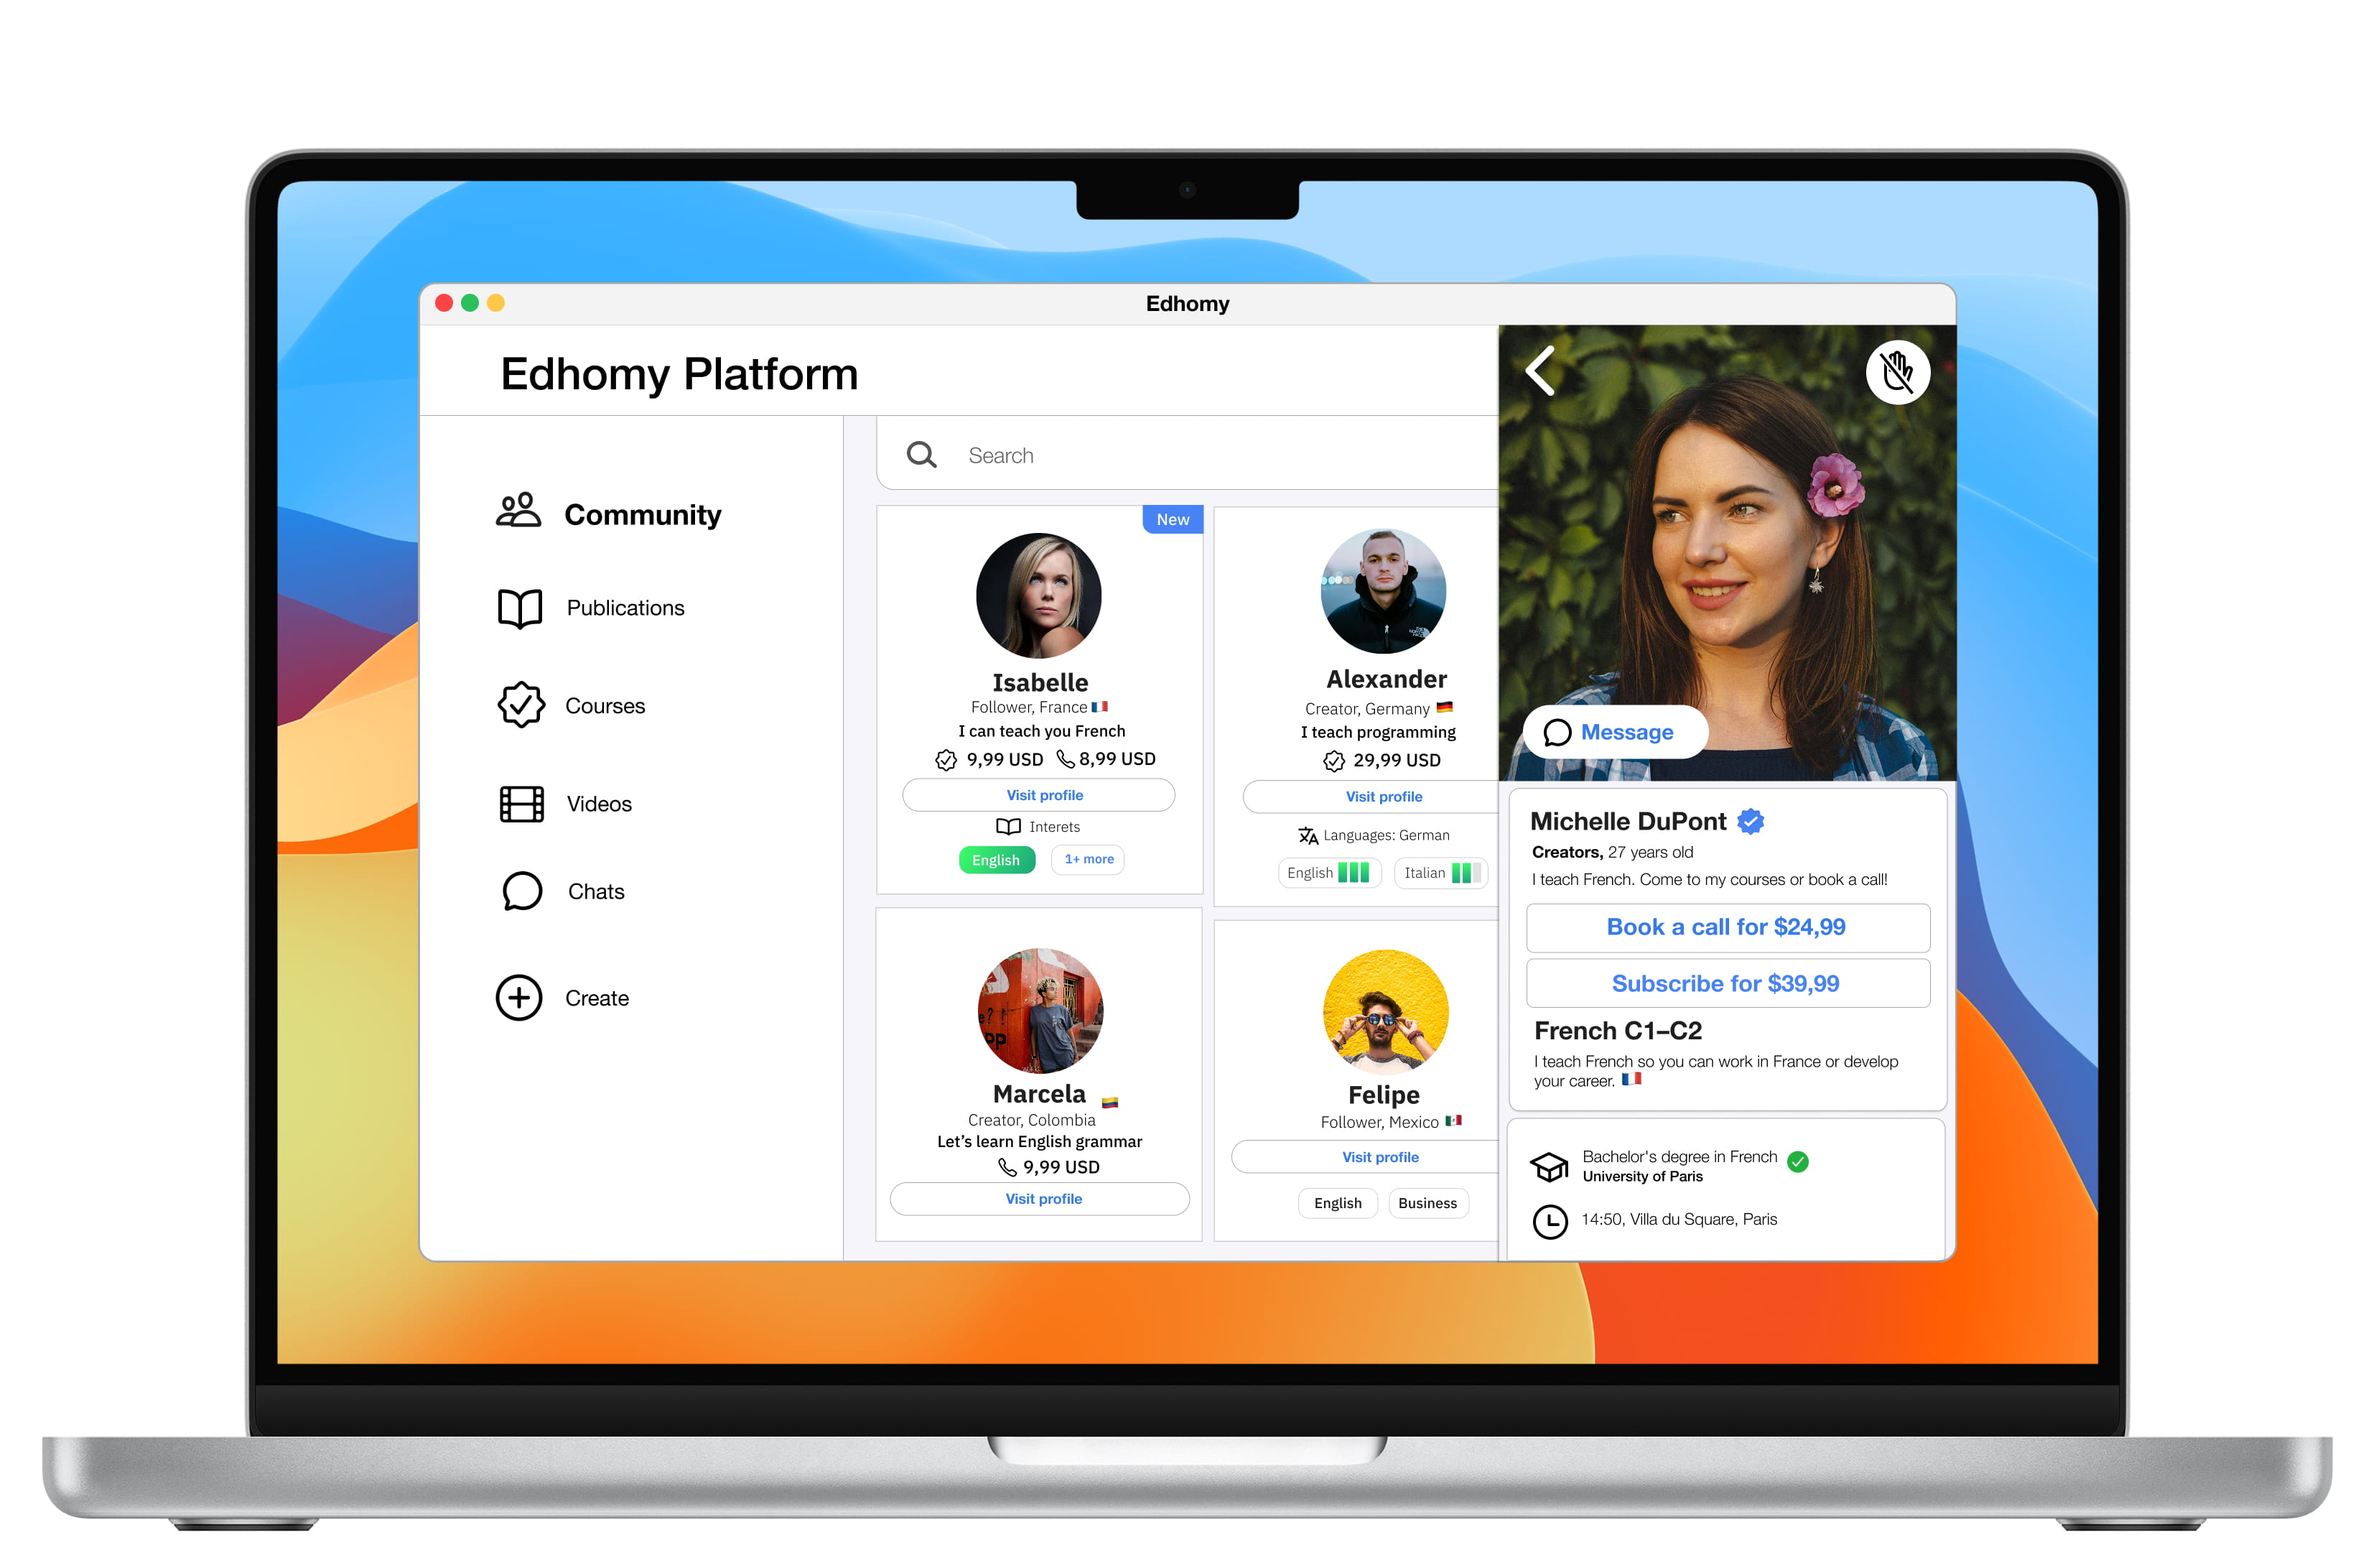
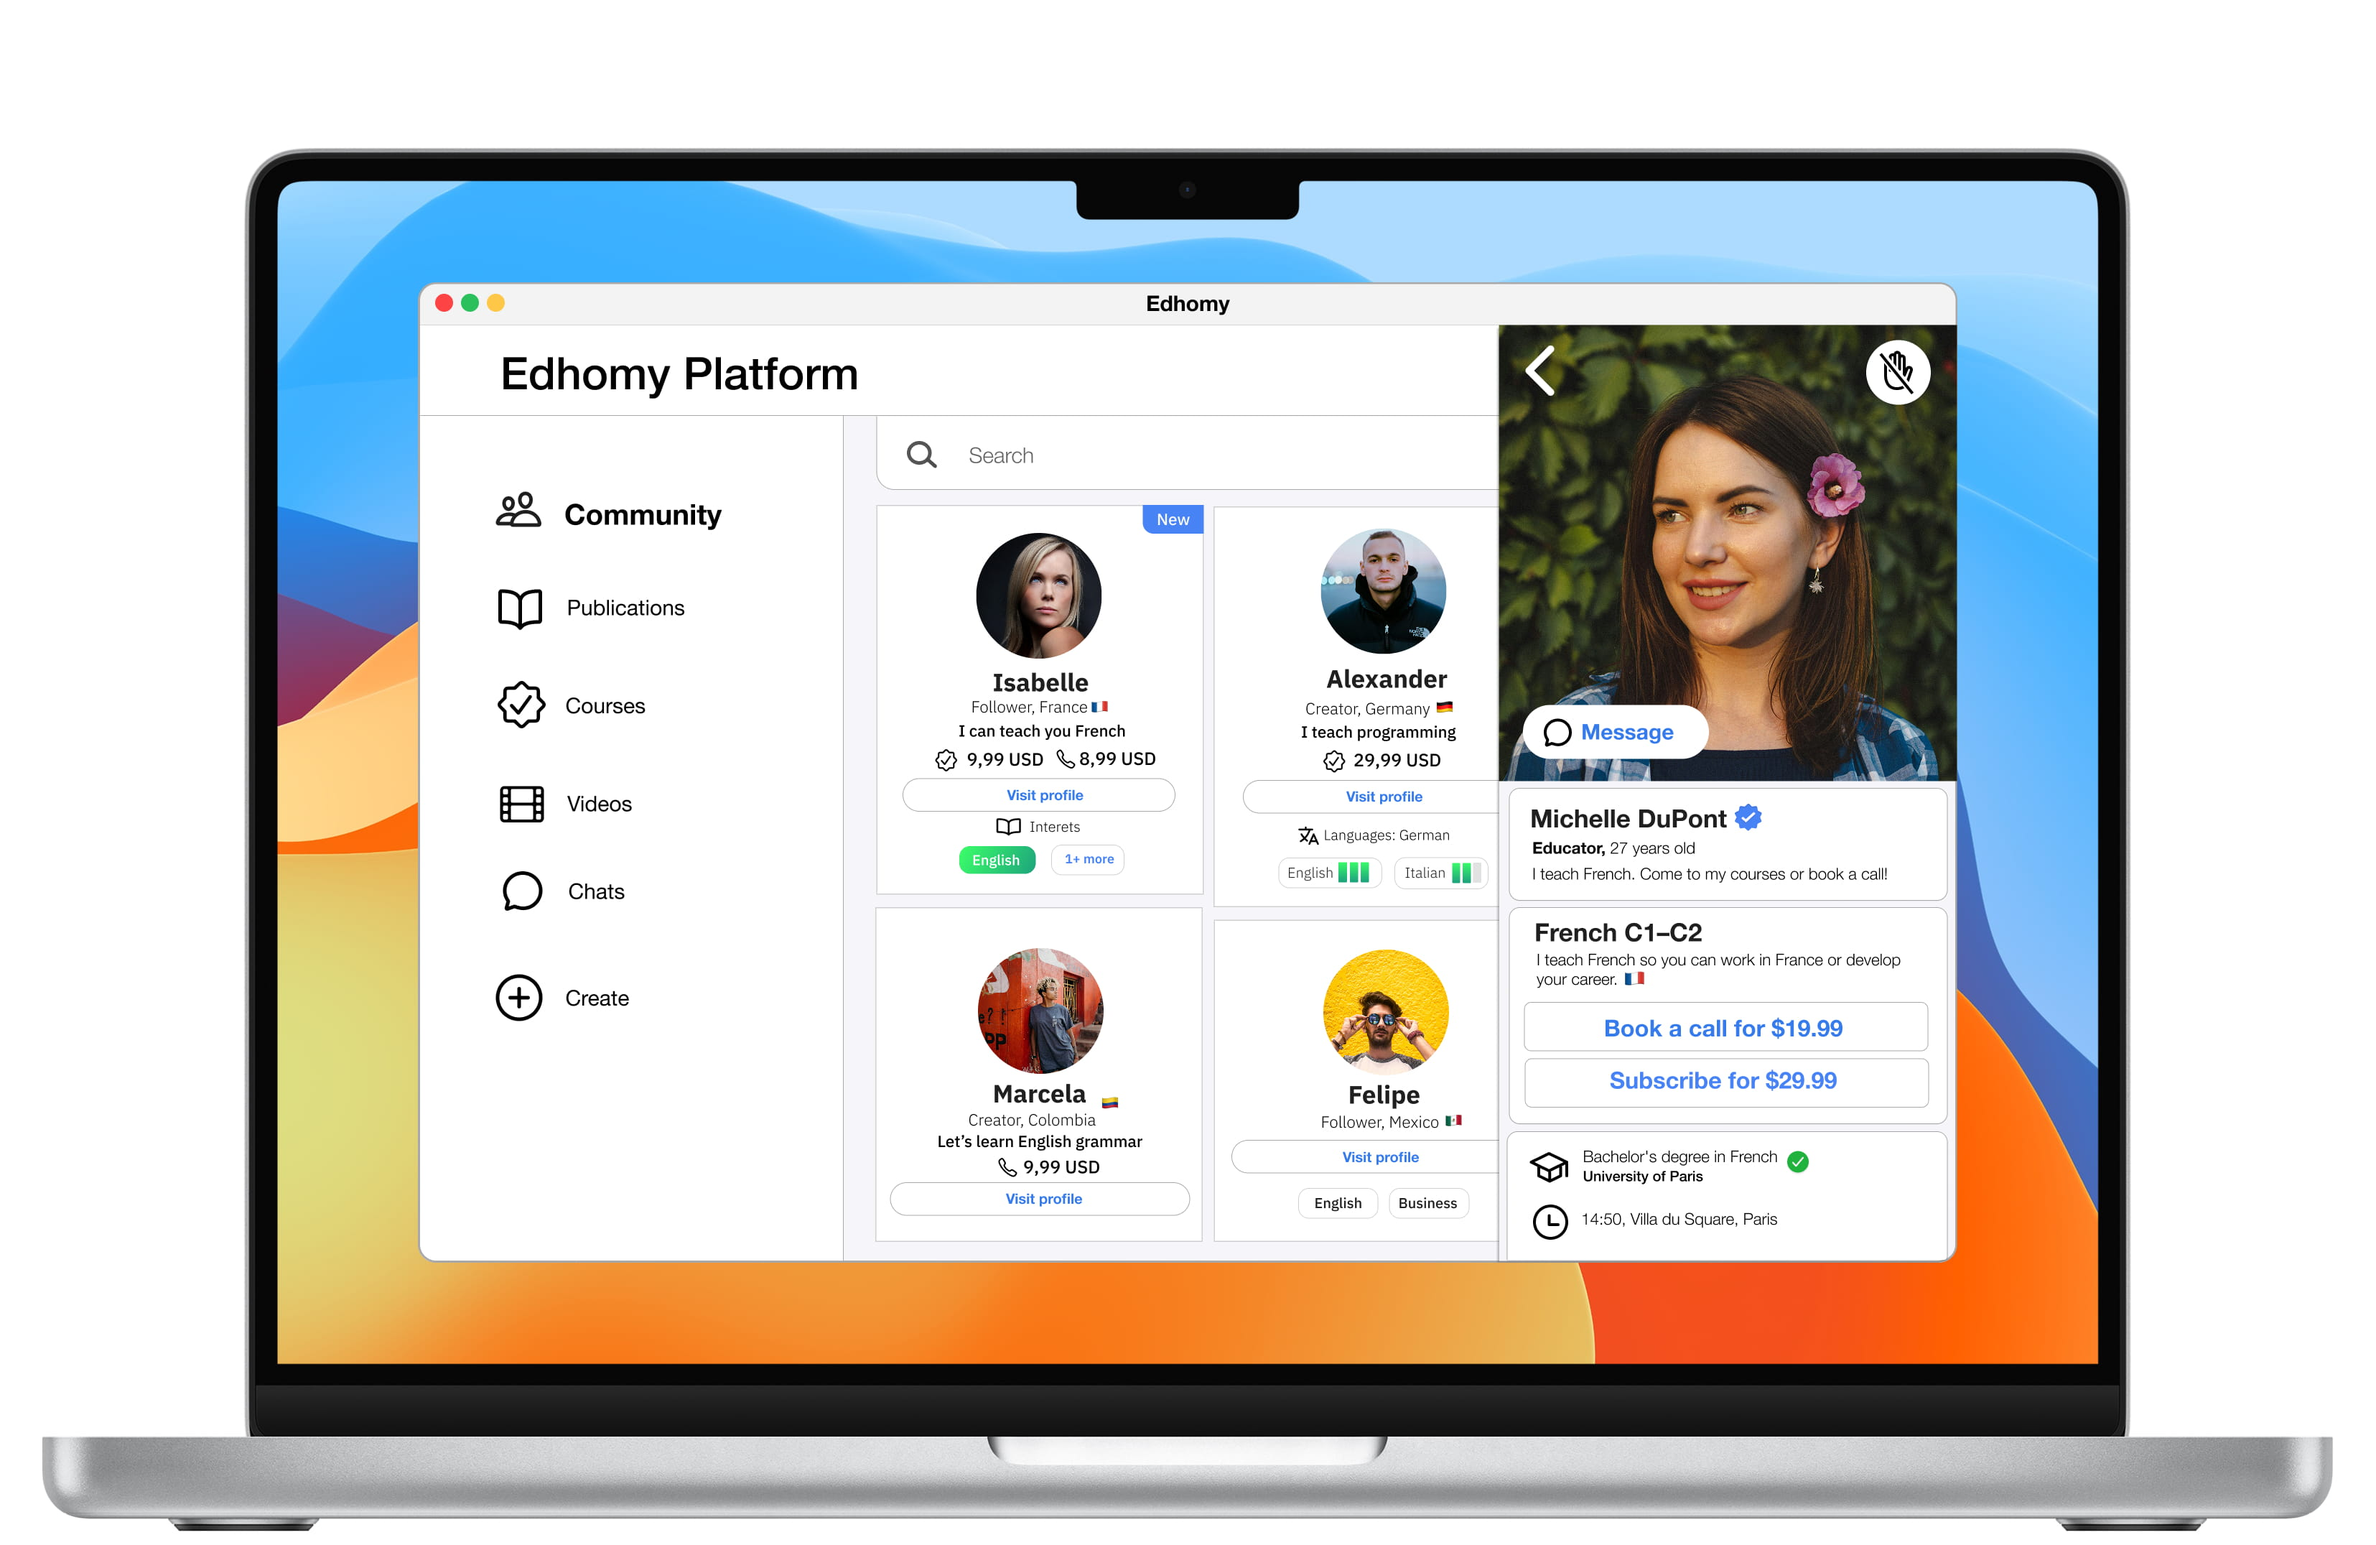
Add files via upload

Changed region(s): [[0.6537, 0.5295, 0.8093, 0.7476]]

diff --git a/flutter_service_worker.js b/flutter_service_worker.js
@@ -3,7 +3,7 @@ const MANIFEST = 'flutter-app-manifest';
 const TEMP = 'flutter-temp-cache';
 const CACHE_NAME = 'flutter-app-cache';
 
-const RESOURCES = {"flutter_bootstrap.js": "d0acb70606131bdb0fb9aa251722da38",
+const RESOURCES = {"flutter_bootstrap.js": "f5047c27bf65934b35f3b38fe0e09967",
 "version.json": "0d0e1e4d2992391e17bcf84e8c6e3122",
 "splash/img/light-2x.png": "d29eb70da62a635a8b9bfe413d5992f6",
 "splash/img/dark-4x.png": "1449ff08b75a911d2592812abb75a0e2",
@@ -42,7 +42,7 @@ const RESOURCES = {"flutter_bootstrap.js": "d0acb70606131bdb0fb9aa251722da38",
 "assets/assets/sounds/begin.mp3": "b4a9472cbe7ed19702bd40e40efaf4fb",
 "assets/assets/sounds/done.mp3": "7a3389aa036b9739d6a74dcba348c76e",
 "assets/assets/sounds/end.mp3": "4006227c8c6aa82ac1c9a418ff912c2d",
-"assets/assets/photos/image8.jpg": "fde31ab31c59aeb8c4ab5833e76e1c89",
+"assets/assets/photos/image8.jpg": "d153e52453171d9c6f3a25713a598f5f",
 "assets/assets/photos/image9.jpg": "018c3b506cfc07802e4ef0ffe16f8919",
 "assets/assets/photos/image7.jpg": "f7503702a2f12d83881d0557839c5c7d",
 "assets/assets/photos/image6.jpg": "3ceeba9eb328093e556b4778419adc0e",

diff --git a/flutter_bootstrap.js b/flutter_bootstrap.js
@@ -38,6 +38,6 @@ _flutter.buildConfig = {"engineRevision":"587c18f873b8ab57330422bce09047420d9c7f
 
 _flutter.loader.load({
   serviceWorkerSettings: {
-    serviceWorkerVersion: "2251914361"
+    serviceWorkerVersion: "348471142"
   }
 });
